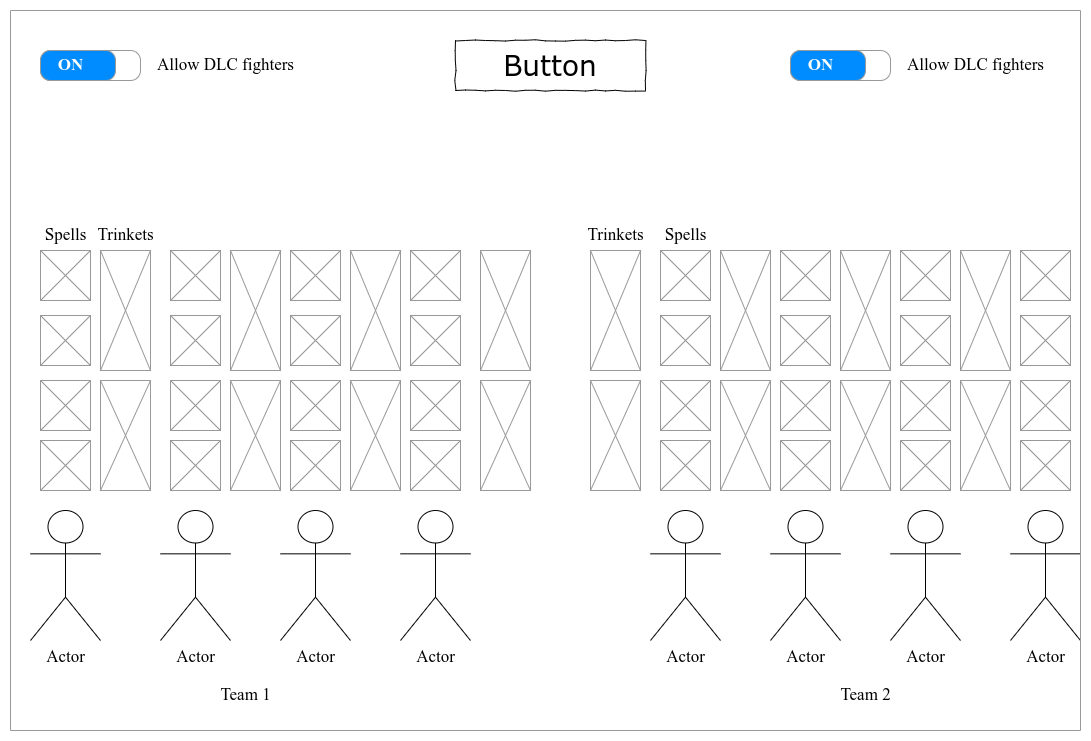
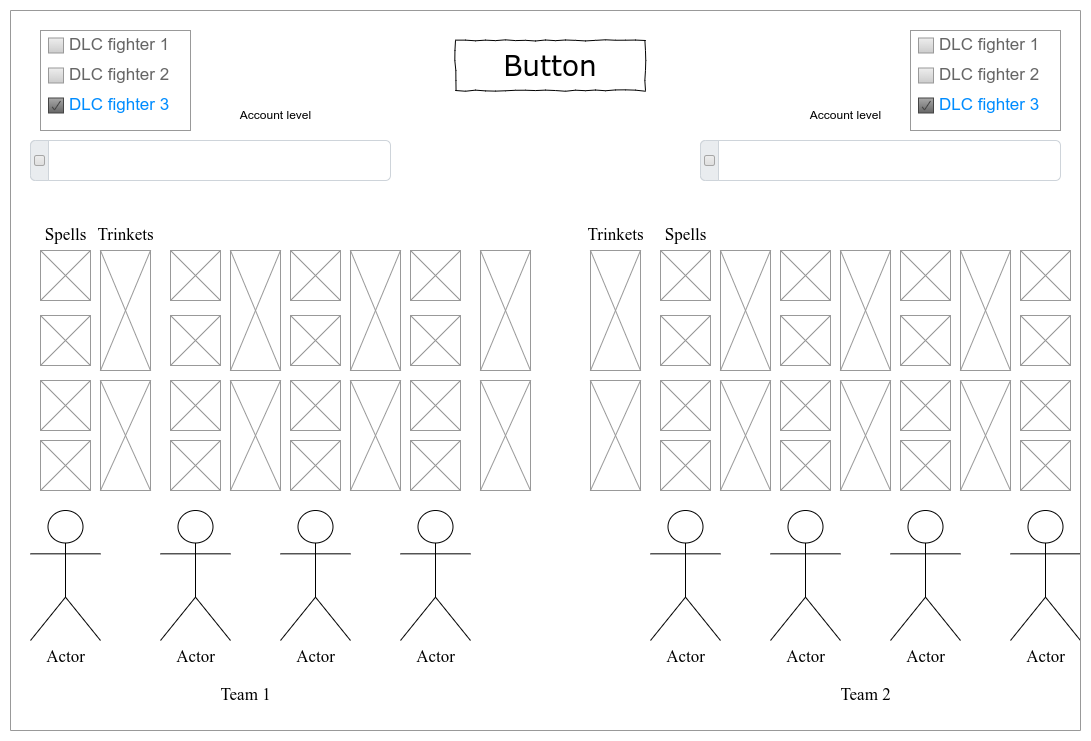
buiseness project

diff --git a/README.md b/README.md
@@ -10,23 +10,19 @@
 
 #### 1.2.1 Исходные данные
 
-19 января 2016 года вышла игра [Darkest Dungeon](https://www.darkestdungeon.com/) которая была очень тепло принята геймерами. Игра, в много известной площадке [Steam](https://store.steampowered.com/app/262060/Darkest_Dungeon/), получила более 100 тысяч положительных отзыв. Через время выходит бесплатное дополнение под названием "[Butcher Circus](https://store.steampowered.com/app/1117860/Darkest_Dungeon_The_Butchers_Circus/)", которое позволяет игрокам соревноваться мастерством управления своим отрядом. В связи с этим, в игру начали возвращаться люди которые её прошли и новички которые только изучают игру, начали испытывать новый режим. Со временем на арене начали появляться очень "сыгранные" игроки которые не давали шанса новичкам и держали топовые позиции до конца каждых лиг.
+19 января 2016 года вышла игра [Darkest Dungeon](https://www.darkestdungeon.com/), которая была очень тепло принята геймерами. Игра, в много известной площадке [Steam](https://store.steampowered.com/app/262060/Darkest_Dungeon/), получила более 100 тысяч положительных отзыв. Через время выходит бесплатное дополнение под названием "[Butcher Circus](https://store.steampowered.com/app/1117860/Darkest_Dungeon_The_Butchers_Circus/)", которое позволяет игрокам соревноваться мастерством управления своим отрядом. В связи с этим, в игру начали возвращаться люди, которые её прошли и новички которые только изучают игру, начали испытывать новый режим. Со временем на арене начали появляться очень "сыгранные" игроки, которые не давали шанса новичкам и держали топовые позиции до конца каждых лиг.
 
 #### 1.2.2 Возможности бизнеса
 
-Чтобы уравнять шансы между заядлыми игроками и людьми которые уделят в разы меньше времени данной игре и при этом не убрать интерес сражения есть возможность создать "рандомайзер" (случайное выпадение) для команд игроков. Такая возможность исключает выпадение "метовой" команды и добавляет часть веселье в уже привычные PVP (игрок против игрока) бои.
+Чтобы уравнять шансы между заядлыми игроками и людьми которые уделят в разы меньше времени данной игре и при этом не убрать интерес сражения есть возможность создать "рандомайзер" (случайное выпадение) для команд игроков. Такая возможность исключает выпадение "метовой" команды и добавляет часть веселья в уже привычные PVP (игрок против игрока) бои.
 
 #### 1.2.3 Границы проекта
 
-"Circus of blood and pain" будет выступать подрядчиком, которые организовывает бои между игроками. Программа будет бесплатная с платными функциями. Пользователю необязательно регистрироваться, но предпочтительнее будет иметь аккаунт. 
-
-Для не зарегистрированных пользователей будет доступен обычный рандом, где случайном образом выбираются 4 бойца, случайным образом выбираются их способности и так же выбирается их вооружение.
-
-Зарегистрированным пользователем будет доступна их статистика, просмотр своего профиля, возможность вызвать противника на бой, соревновательный режим битв и лига боевого рандома.
+"Circus of blood and pain" будет выступать диллером для игроков, который выдает двум игрокам комманды.
 
 ### 1.3 Аналоги
 
-Известным аналогом, ориентирующийся на соревновательные игры, является [faceit](https://www.faceit.com/), где люди могут сразится с другими игроками в большом списке доступных кибердисциплин. Свою популярность данное приложение получило за счет таких игр как CS:GO и DOTA2
+Конкретно для данной игры аналогов нет.
 
 ---
 
@@ -38,29 +34,11 @@
 
 ![окно рандома](исходники/randomMocap.png)
 
-окно статистики пользователя
-
-![окно статистики](исходники/statMocap.png)
-
-окно топа пользователей
-
-![окно топа](исходники/leaderboardMocap.png)
-
-окно соревновательного рандома
-
-![окно соревнования](исходники/competitiveMocap.png)
-
-окно поиска противника
-
-![окно поиска](исходники/searchMocap.png)
-
 ### 2.2 Характеристики пользователей
 
 #### 2.2.1 Классификация пользователей
 
-**Не зарегистрированные** пользователи - пользователи не создавшие аккаунт, они имеют доступ только к базовому рандому который позволяет выдать команду себе и противнику для лично договоренных матчей, так же подходит для тестирования приложения.
-
-**Зарегистрированные пользователи** - пользователи связавшие свой Steam аккаунт к приложению. Такие пользователи имеют доступ к своему профилю, где отображается их личная статистика, появляется возможность бросать вызов других игрокам и открывается доступ к битвам соревновательного рандома. Так же пользователь может участвовать в турнирах которые могут организовываться другими энтузиастами.
+Пользователь скачавший программу получает полный функционал.
 
 #### 2.2.2 Целевая аудитория
 
@@ -68,11 +46,7 @@
 
 ### 2.3 Предположения и зависимости
 
-1. Программа должна быть кроссплатформенной, так как и игра Darkest Dungeon доступна с разных систем.
-
-2. Должна быть поддержка Oauth2 с платформой Steam для сбора некоторых данных о пользователе (прим никнейм)
-
-3. Должна быть хорошая защита по отношению проверки на подписку к платным услугам.
+Программа должна быть доступна на Linux и Windows.
 
 ---
 
@@ -80,33 +54,9 @@
 
 ### 3.1 Функциональный требования
 
-#### 3.1.1 Приложение от лица не зарегистрированного пользователя
+#### 3.1.1 Приложение от лица пользователя
 
- * Пользователь при входе в программу получает уведомление о том, что не имеет аккаунта 
- * Если пользователь не решается создать аккаунт, то ему открывается окно базового рандома где он может протестировать функцию рандома или создать аккаунт
-
-#### 3.1.2 Приложение от лица зарегистрированного пользователя
-
- * Пользователей так же обладает всем функционалом которые доступен для не зарегистрированного пользователя.
- * При входе пользователю открывается окно с его профилем с доступными вкладками: топ игроков, арена, лига, базовый рандом
- * Топ игроков открывает окно где отображаются чемпионы за всё время и лидеры в текущем сезоне, так же пользователь может увидеть свое место в мировом рейтинге
- * Арена открывает возможность найти случайного противника или, с помощью поиска, найти конкретного противника и бросить ему вызов. В арене есть платная подписка которая позволяет получить приоритет в поиске противника.
- * Лига позволяет принять участие в соревновательном рандоме, где двум игрокам выпадает 3 команды, каждый из игроков блокируют одну команду противника и выбирает для себя оставшуюся команду для сражения. Для лиги так же доступен платный приоритетный поиск.
- * базовый рандом просто выдает случайную команду пользователю.
-
-#### 3.1.3 Система подбора противников
-
-Каждый месяц объявляется новый игровой сезон при котором глобальный топ обнуляется, но при этом личная статистика пользователей не стирается. При сбросе глобальной статистики нужно учитывать очки "поощрения" в выдаче новой лиги. Лига - промежуточные уровни которые созданы для разделения более сильных игроков от более слабых, прим: Темнейшая - самые сильные игроки, Закаленные - средняя лига, Свежая кровь - начальная лига. В зависимости от очков поощрения зависит в какую именно лигу попадет игрок после завершения сезона, сделано это для того чтобы сильнейшие игроки не тратили время и не портили настроение другим игрокам побеждая их своим опытом сражений.
-
-После нажатия пользователем на кнопку поиска, он попадает в окно поиска противника, если пользователь купил подписку приоритетного поиска, то он должен обладать особым приоритетом подбора игроков. Изначально подбираются игроки среди той же лиги в которой находится пользователь, спустя 30 секунд после поиска, поиск расширяется до нижней лиги (при условии если это не начальная лига), спустя еще 30 секунд поиск начинает работать по всем лигам. Если пользователь досрочно покидает игру, его приоритет поиска становится чуть ниже. Восстановить приоритет можно путем отыгрывания полных игр (1 очко приоритета = 3 игры). Если пользователь с купленной подпиской на приоритетный поиск досрочно покидает 2 игры, то он получает предупреждении о возможном снятии приоритетного поиска, если после этого пользователь покидает еще одну игру, то приоритетный поиск снимается и доступ на покупку блокируется на неделю.
-
-Работа приоритета поиска заключается в том, что в первую очередь противники должны подбираться для людей с особым приоритетом, во вторую с обычным и в третью с низким приоритетом. Во время поиска нужно уведомлять пользователя каким именно приоритетом поиска он обладает и причину (прим. Куплена подписка).
-
-В случае если игрок использует обычный поиск (не соревновательный) то поиск идёт совершенно свободно (нашелся - начал играть).
-
-#### 3.1.4 Античит (или система блокировок)
-
-Пользователи находящиеся под [VAC банном](https://steamcommunity.com/sharedfiles/filedetails/?id=607854175) изначально имеют низкие приоритет поиска, но у них нет запрета на повышение приоритета своего поиска. Если пользователь подозревается в читерстве или в нарочном краше сервера в целях досрочный завершения игры без потери рейтинга, то такой пользователь может получить ограничение на поиск новых боев от пары дней вплоть до полной блокировки. Заблокированные пользователи в мировом топе получают статус *Blocked* с причиной в описании их профиля.
+При открытии программы пользователь может выбрать уровень своего (и противника) аккаунта, выбрать какие платные персонажи ему (им) доступны и получить итоговую комманду для битвы.
 
 ### 3.2 Нефункциональные требования
 
@@ -114,12 +64,8 @@
 
 Визуальный стиль приложения должен быть максимально приближен к атмосфере игры Darkest Dungeon, возможны свои доработки\добавления.
 
-#### 3.2.2 Требования к удобству
-
-Глобальная статистика должна обновляться каждые 20 минут или если пользователь завершил матч с противником.
-
 #### 3.2.3 Ограничения
 
 1. Язык программирования c++17
 2. Ui пишется в qt версии 6.0.3
-3. База данных PostgreSQL
+3. Язык программы английский, так же предоставить возможность добавить другие языки.
